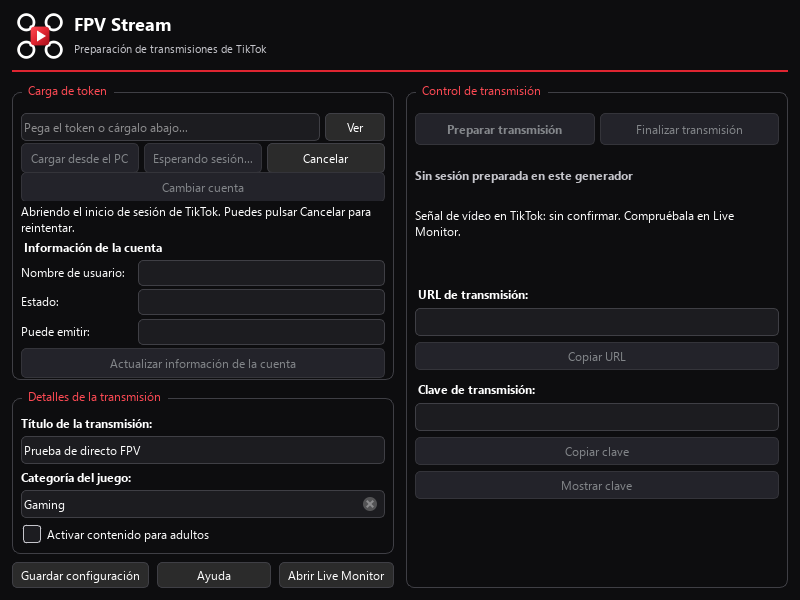
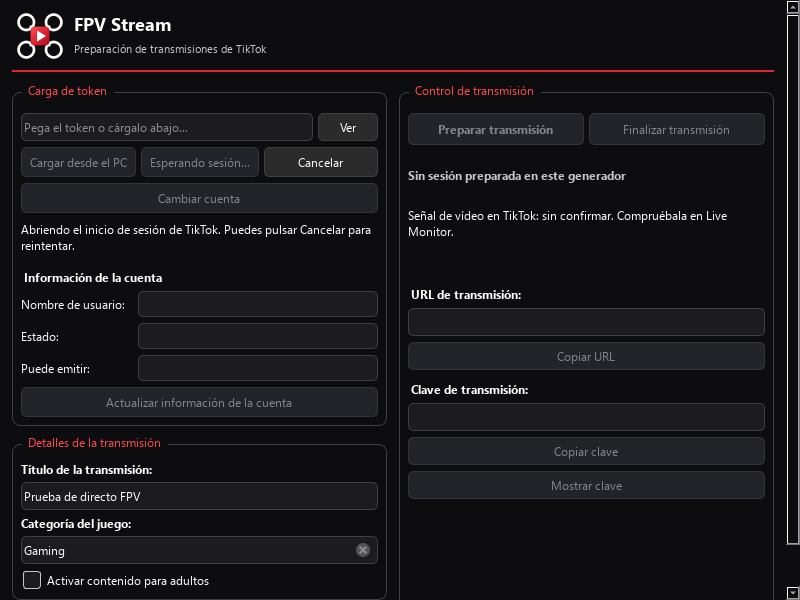
fix(layout): scroll the generator instead of overlapping widgets
The window allowed 800x600 while the layout needed 646 px (751 with category suggestions), so Qt squeezed labels and buttons on top of each other. Wrap the content in a QScrollArea, keep the 800x600 minimum, and assert the vertical scrollbar appears when the content does not fit. Refresh the 800x600 validation screenshots.

diff --git a/test_app.py b/test_app.py
@@ -9,7 +9,7 @@ from unittest.mock import patch
 
 os.environ.setdefault("QT_QPA_PLATFORM", "offscreen")
 from PySide6.QtCore import QTimer
-from PySide6.QtWidgets import QApplication, QLineEdit, QMessageBox, QPushButton
+from PySide6.QtWidgets import QApplication, QLineEdit, QMessageBox, QPushButton, QScrollArea
 from Stream import Stream
 from TokenRetriever import TokenRetriever
 from StreamLabsTikTokStreamKeyGenerator import StreamApp
@@ -67,6 +67,20 @@ class AppTests(unittest.TestCase):
         self.client.s.post.return_value = response(payload={"id": "session-1", "rtmp": "rtmps://example.invalid/app", "key": "unit-key"})
         self.window.start_stream()
         self.wait_for(lambda: not self.window._api_busy)
+
+    def test_small_window_scrolls_instead_of_clipping_content(self):
+        self.window.resize(800, 600)
+        self.window.show()
+        self.app.processEvents()
+        self.window.login_status.setText(
+            "Se agotó el tiempo de inicio de sesión. Puedes reintentar. No hay ninguna cuenta cargada."
+        )
+        self.window.suggestions_list.addItems(["Categoría uno", "Categoría dos"])
+        self.window.suggestions_list.setVisible(True)
+        self.app.processEvents()
+        scroll = self.window.centralWidget()
+        self.assertIsInstance(scroll, QScrollArea)
+        self.assertGreater(scroll.verticalScrollBar().maximum(), 0)
 
     def test_online_cancel_restores_retry_and_ignores_stale_completion(self):
         first = TokenRetriever()

diff --git a/StreamLabsTikTokStreamKeyGenerator.py b/StreamLabsTikTokStreamKeyGenerator.py
@@ -10,7 +10,8 @@ import hashlib
 import tempfile
 from PySide6.QtWidgets import (QApplication, QMainWindow, QWidget, QVBoxLayout, QHBoxLayout,
                               QGroupBox, QPushButton, QLineEdit, QLabel, QCheckBox,
-                              QListWidget, QMessageBox, QListWidgetItem, QSizePolicy, QFrame)
+                              QListWidget, QMessageBox, QListWidgetItem, QSizePolicy, QFrame,
+                              QScrollArea)
 from PySide6.QtCore import Signal, QTimer, Qt, QUrl
 from PySide6.QtGui import QDesktopServices, QIcon
 from Stream import Stream
@@ -98,7 +99,12 @@ class StreamApp(QMainWindow):
         main_layout.setContentsMargins(12, 12, 12, 12)
         main_layout.setSpacing(10)
         main_widget.setLayout(main_layout)
-        self.setCentralWidget(main_widget)
+        self.scroll_area = QScrollArea()
+        self.scroll_area.setWidgetResizable(True)
+        self.scroll_area.setFrameShape(QFrame.NoFrame)
+        self.scroll_area.setHorizontalScrollBarPolicy(Qt.ScrollBarAlwaysOff)
+        self.scroll_area.setWidget(main_widget)
+        self.setCentralWidget(self.scroll_area)
 
         brand_header = QWidget()
         brand_header_layout = QHBoxLayout(brand_header)

diff --git a/docs/validation/README.md b/docs/validation/README.md
@@ -23,7 +23,8 @@ its result rather than starting another request with the same identity.
 The screenshots use synthetic credentials and the real Qt widgets, rendered
 offscreen with the installed Segoe UI font. No account settings were loaded.
 Reviewed at 1000×760 (prepared) and 800×600 (uncertain): status text wraps,
-the recovery action has reserved space, and credentials remain masked.
+the recovery action has reserved space, credentials remain masked, and the
+central content scrolls instead of overlapping when the window is short.
 Regenerate them with `.venv/Scripts/python.exe render_validation_screenshots.py`.
 
 - [Prepared session](generator-prepared.png)

diff --git a/DESIGN.md b/DESIGN.md
@@ -50,7 +50,7 @@ animation, font or dependency.
 | Dialog | Native QMessageBox, default Cancel for uncertain-state recovery | GUI cancellation test |
 | Search | QTimer debounce, generation check, one in-flight request | Stale-result GUI test |
 | Brand chrome | branding/fpv-stream-logo.svg, StreamApp._apply_brand_theme | UI smoke test and Qt icon load |
-| Scroll/control chrome | Platform QStyle | Qt offscreen screenshots |
+| Scroll/control chrome | QScrollArea + platform QStyle | 800×600 scroll test and Qt offscreen screenshots |
 
 ## Status and visual language
 
